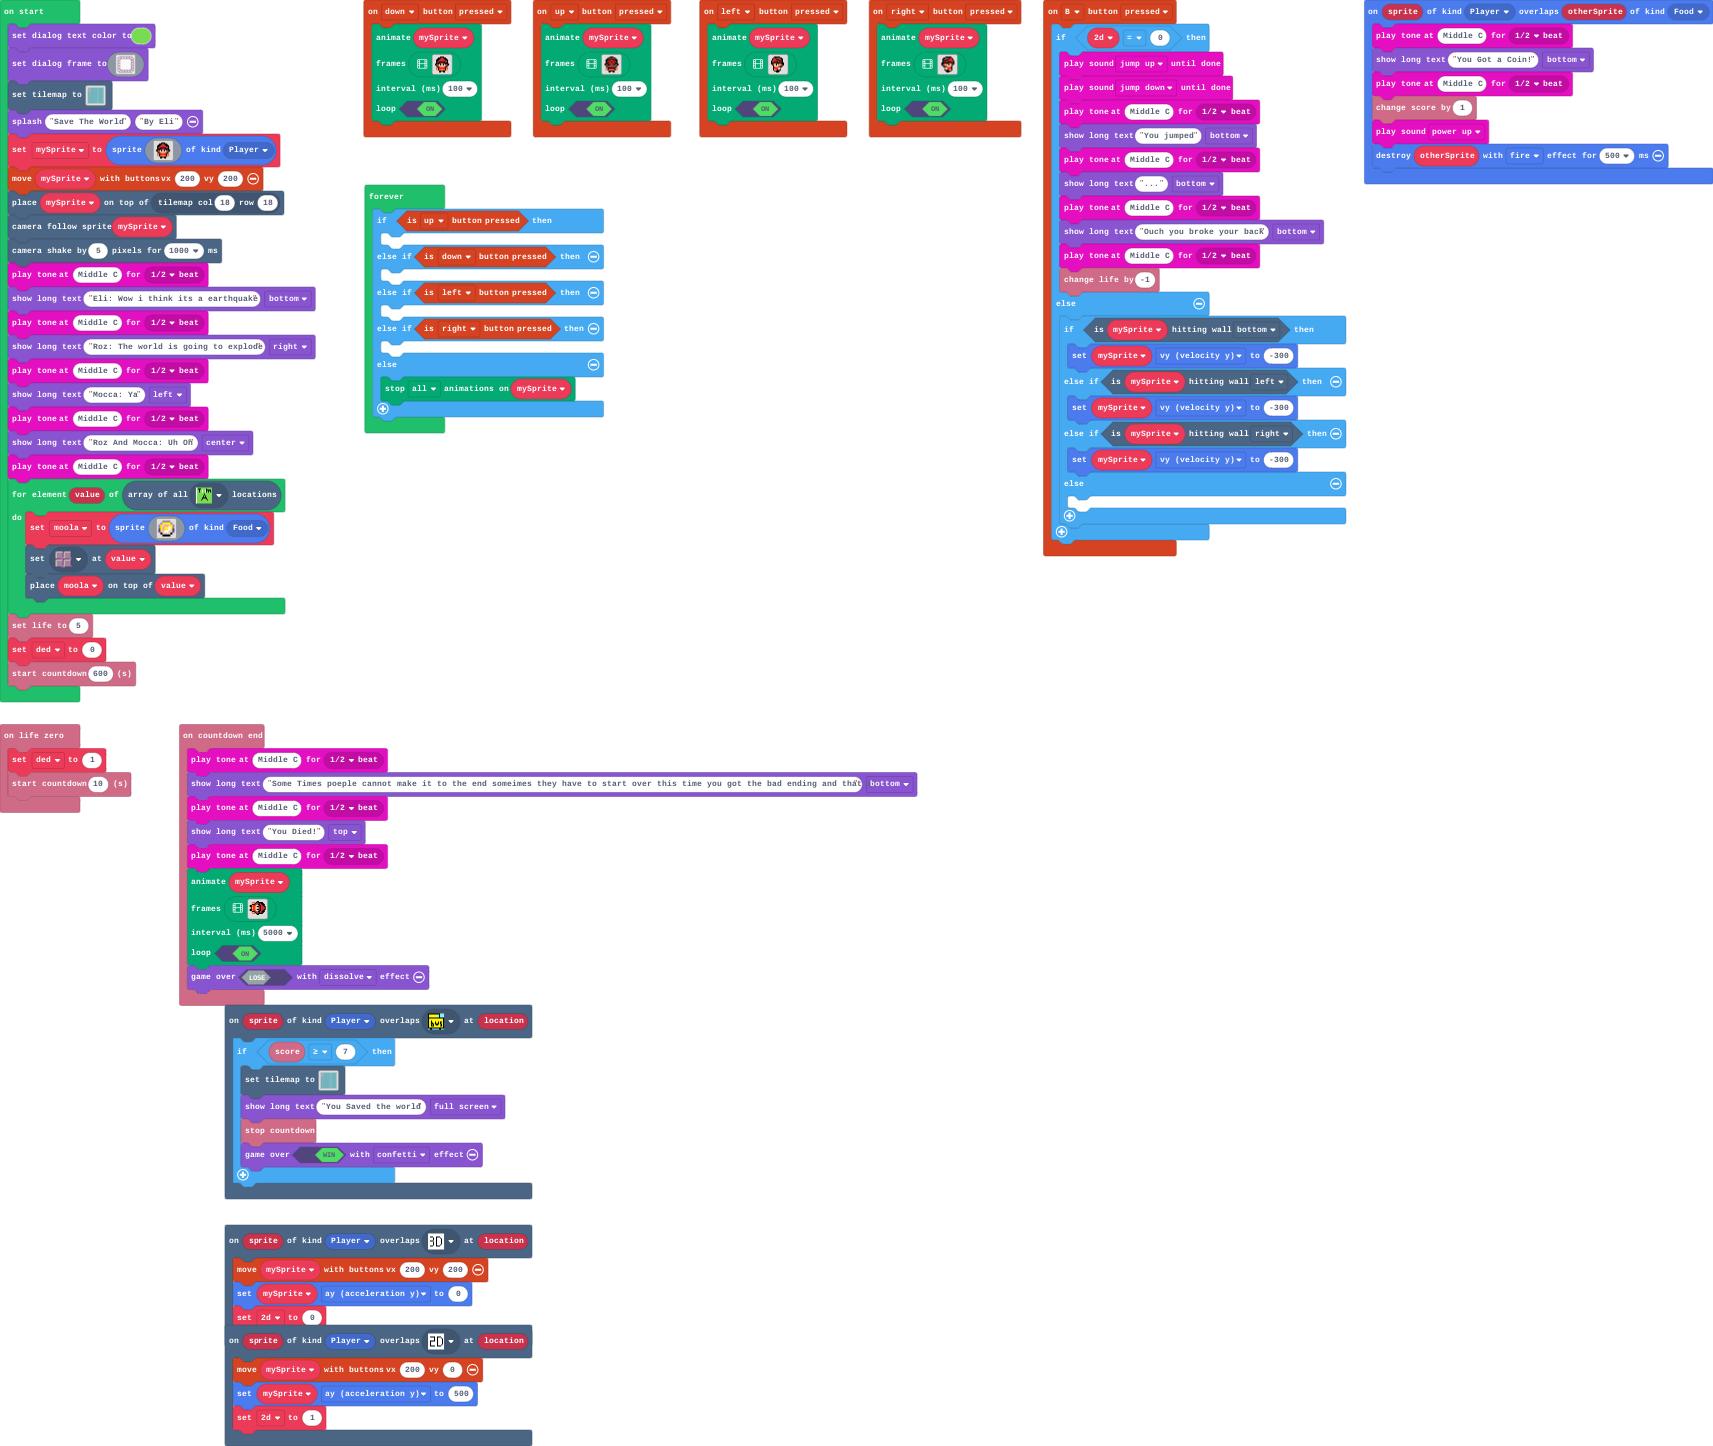
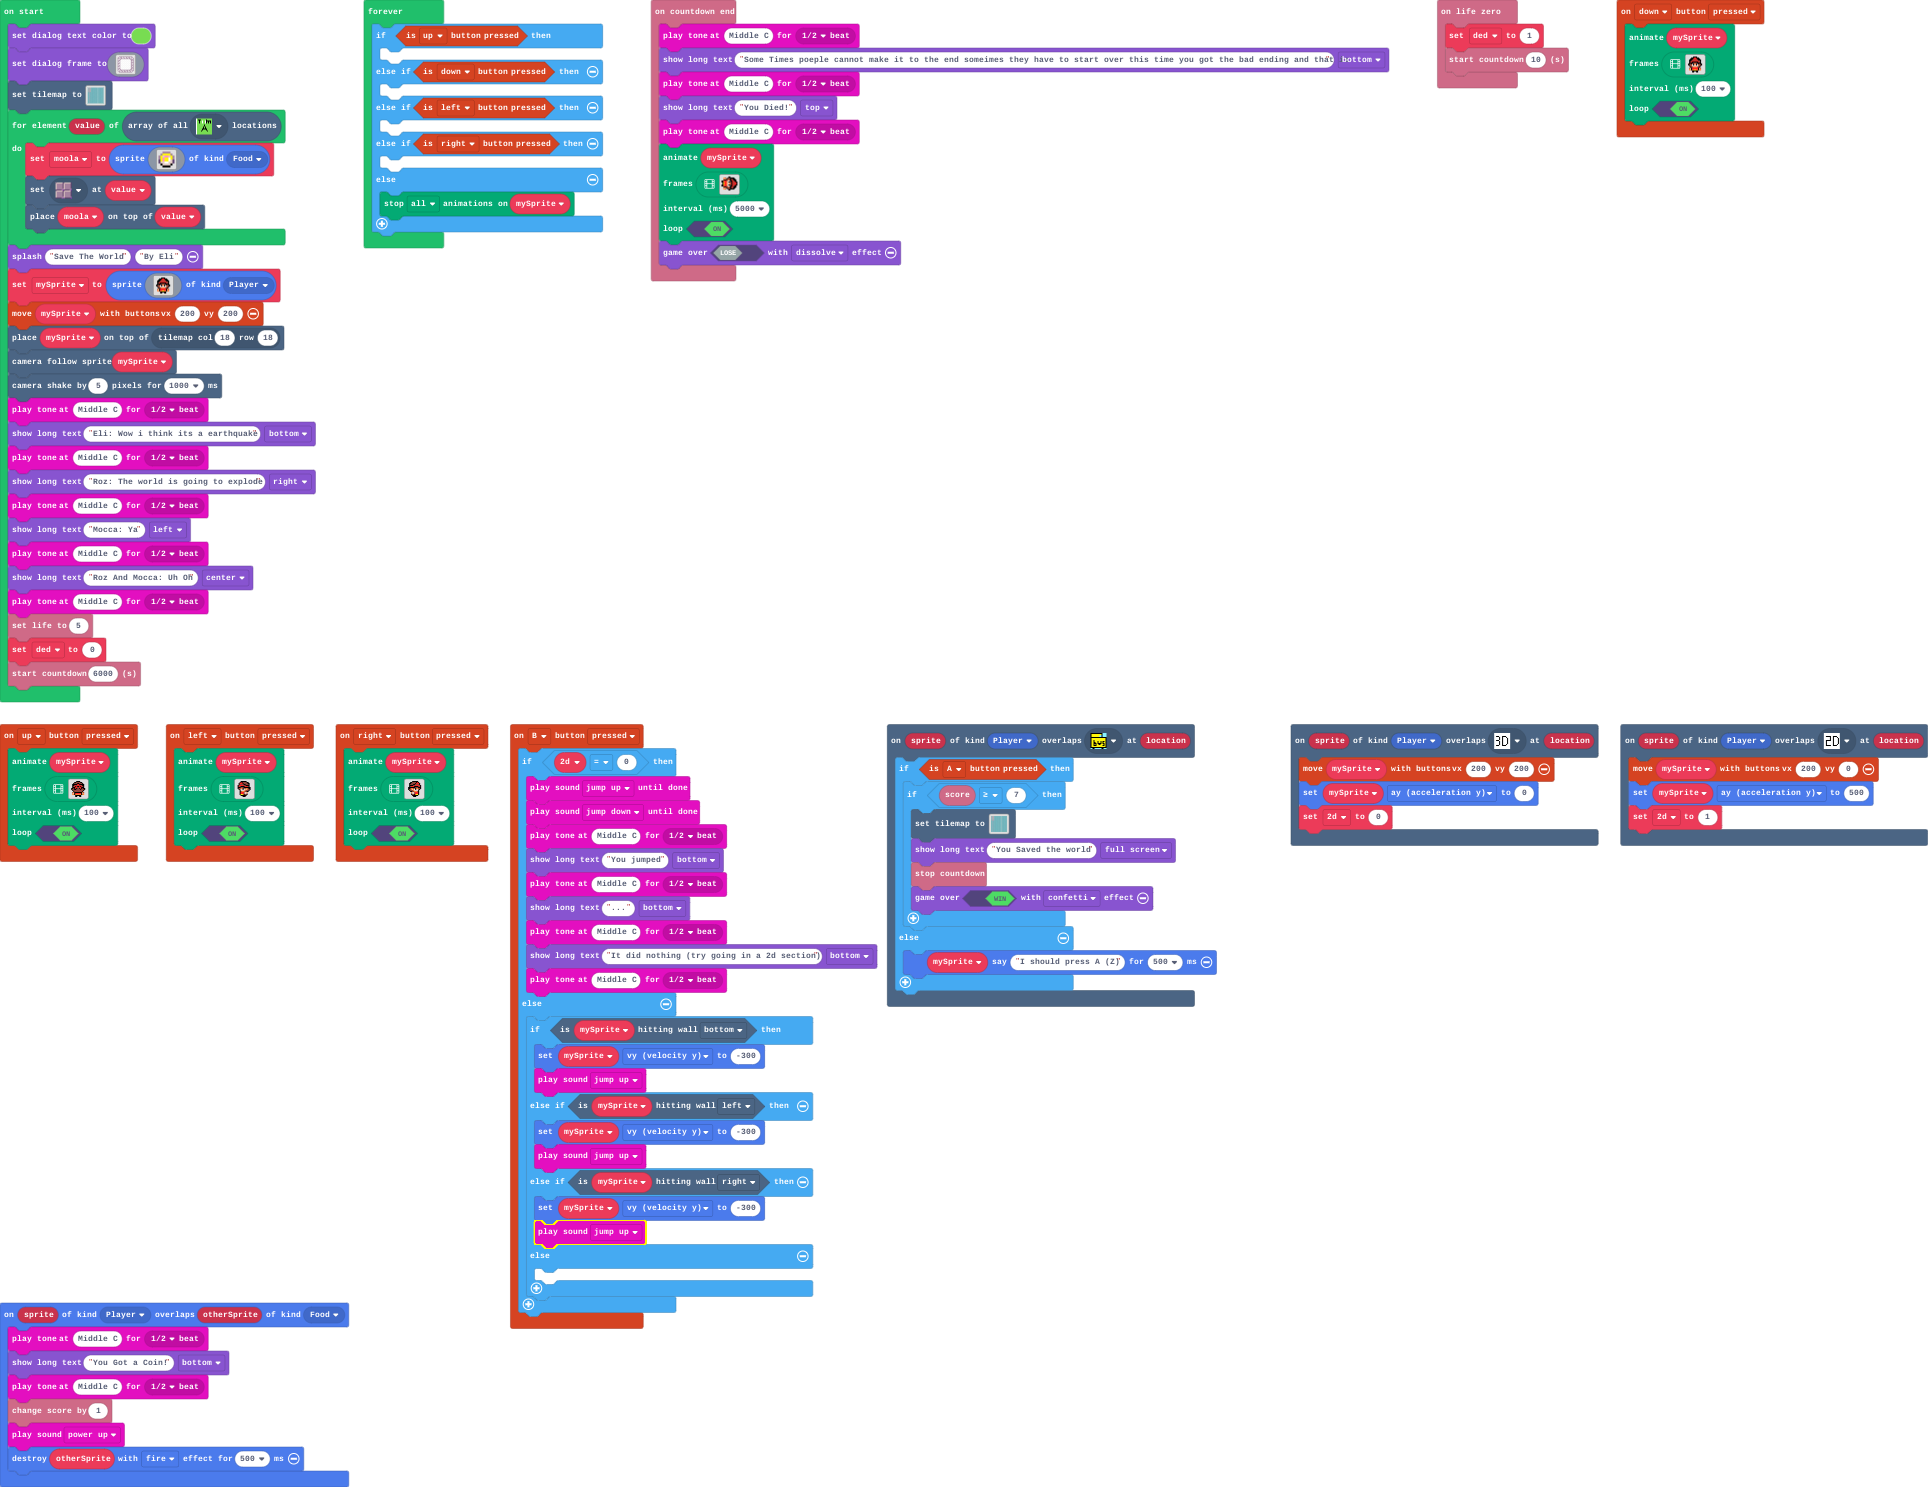
Update main.blocks, main.ts

diff --git a/main.ts b/main.ts
@@ -1,9 +1,13 @@
 scene.onOverlapTile(SpriteKind.Player, assets.tile`myTile0`, function (sprite, location) {
-    if (info.score() >= 7) {
-        tiles.setTilemap(tilemap`level1`)
-        game.showLongText("You Saved the world", DialogLayout.Full)
-        info.stopCountdown()
-        game.over(true, effects.confetti)
+    if (controller.A.isPressed()) {
+        if (info.score() >= 7) {
+            tiles.setTilemap(tilemap`level1`)
+            game.showLongText("You Saved the world", DialogLayout.Full)
+            info.stopCountdown()
+            game.over(true, effects.confetti)
+        }
+    } else {
+        mySprite.say("I should press A (Z)", 500)
     }
 })
 scene.onOverlapTile(SpriteKind.Player, assets.tile`myTile1`, function (sprite, location) {
@@ -96,16 +100,18 @@ controller.B.onEvent(ControllerButtonEvent.Pressed, function () {
         music.playTone(262, music.beat(BeatFraction.Half))
         game.showLongText("...", DialogLayout.Bottom)
         music.playTone(262, music.beat(BeatFraction.Half))
-        game.showLongText("Ouch you broke your back", DialogLayout.Bottom)
+        game.showLongText("It did nothing (try going in a 2d section)", DialogLayout.Bottom)
         music.playTone(262, music.beat(BeatFraction.Half))
-        info.changeLifeBy(-1)
     } else {
         if (mySprite.isHittingTile(CollisionDirection.Bottom)) {
             mySprite.vy = -300
+            music.jumpUp.play()
         } else if (mySprite.isHittingTile(CollisionDirection.Left)) {
             mySprite.vy = -300
+            music.jumpUp.play()
         } else if (mySprite.isHittingTile(CollisionDirection.Right)) {
             mySprite.vy = -300
+            music.jumpUp.play()
         } else {
         	
         }
@@ -423,8 +429,8 @@ sprites.onOverlap(SpriteKind.Player, SpriteKind.Food, function (sprite, otherSpr
 })
 let _2d = 0
 let ded = 0
-let moola: Sprite = null
 let mySprite: Sprite = null
+let moola: Sprite = null
 game.setDialogTextColor(7)
 game.setDialogFrame(img`
     11bbbbbbbbbbbbbbbbbbbb11
@@ -453,6 +459,20 @@ game.setDialogFrame(img`
     11bbbbbbbbbbbbbbbbbbbb11
     `)
 tiles.setTilemap(tilemap`level1`)
+for (let value of tiles.getTilesByType(assets.tile`myTile`)) {
+    moola = sprites.create(img`
+        . . b b b b . . 
+        . b 5 5 5 5 b . 
+        b 5 d 3 3 d 5 b 
+        b 5 3 5 5 1 5 b 
+        c 5 3 5 5 1 d c 
+        c d d 1 1 d d c 
+        . f d d d d f . 
+        . . f f f f . . 
+        `, SpriteKind.Food)
+    tiles.setTileAt(value, sprites.dungeon.floorDark0)
+    tiles.placeOnTile(moola, value)
+}
 game.splash("Save The World", "By Eli")
 mySprite = sprites.create(img`
     . . . . . . f f f f . . . . . . 
@@ -485,23 +505,9 @@ game.showLongText("Mocca: Ya", DialogLayout.Left)
 music.playTone(262, music.beat(BeatFraction.Half))
 game.showLongText("Roz And Mocca: Uh Oh", DialogLayout.Center)
 music.playTone(262, music.beat(BeatFraction.Half))
-for (let value of tiles.getTilesByType(assets.tile`myTile`)) {
-    moola = sprites.create(img`
-        . . b b b b . . 
-        . b 5 5 5 5 b . 
-        b 5 d 3 3 d 5 b 
-        b 5 3 5 5 1 5 b 
-        c 5 3 5 5 1 d c 
-        c d d 1 1 d d c 
-        . f d d d d f . 
-        . . f f f f . . 
-        `, SpriteKind.Food)
-    tiles.setTileAt(value, sprites.dungeon.floorDark0)
-    tiles.placeOnTile(moola, value)
-}
 info.setLife(5)
 ded = 0
-info.startCountdown(600)
+info.startCountdown(6000)
 forever(function () {
     if (controller.up.isPressed()) {
     	
